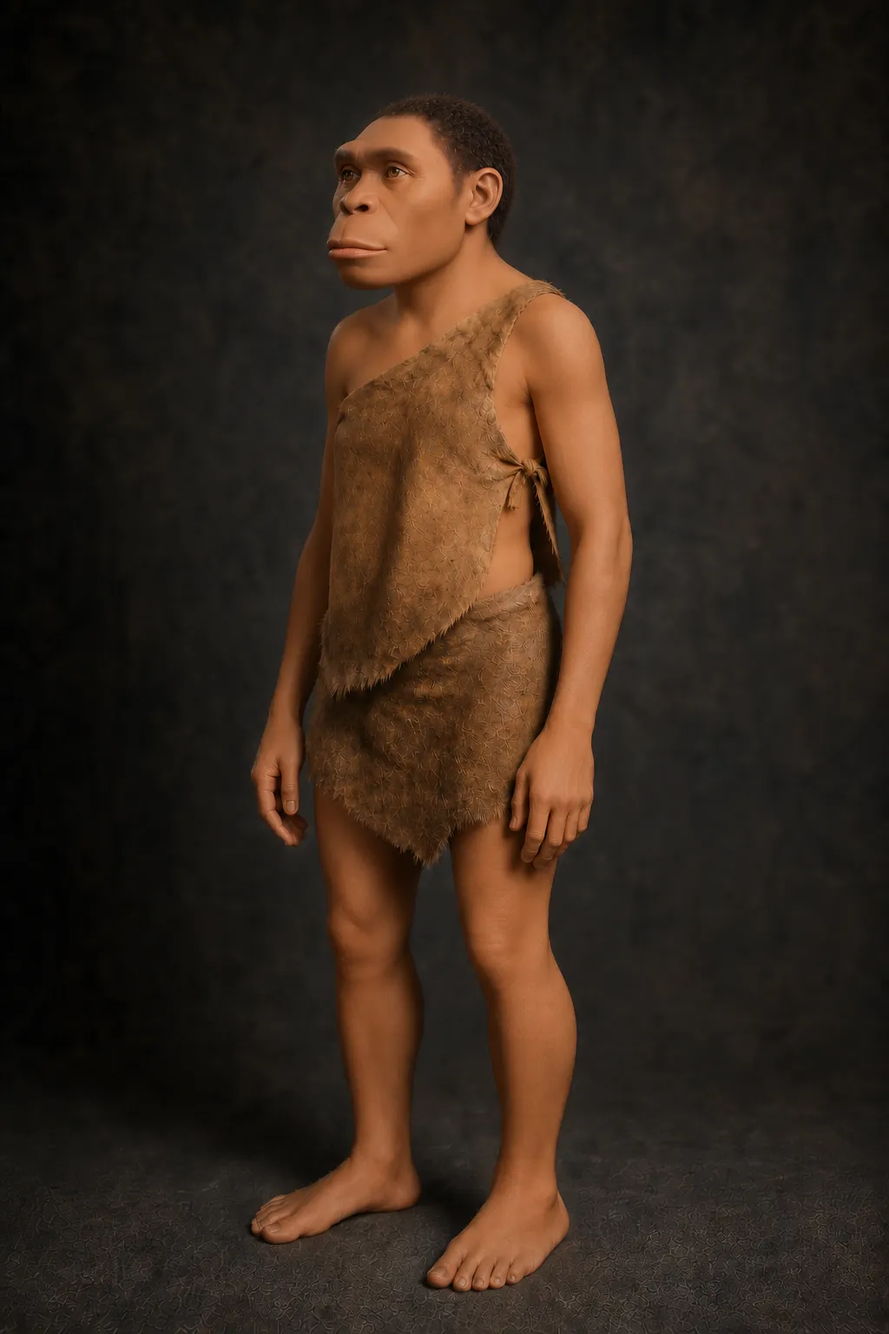
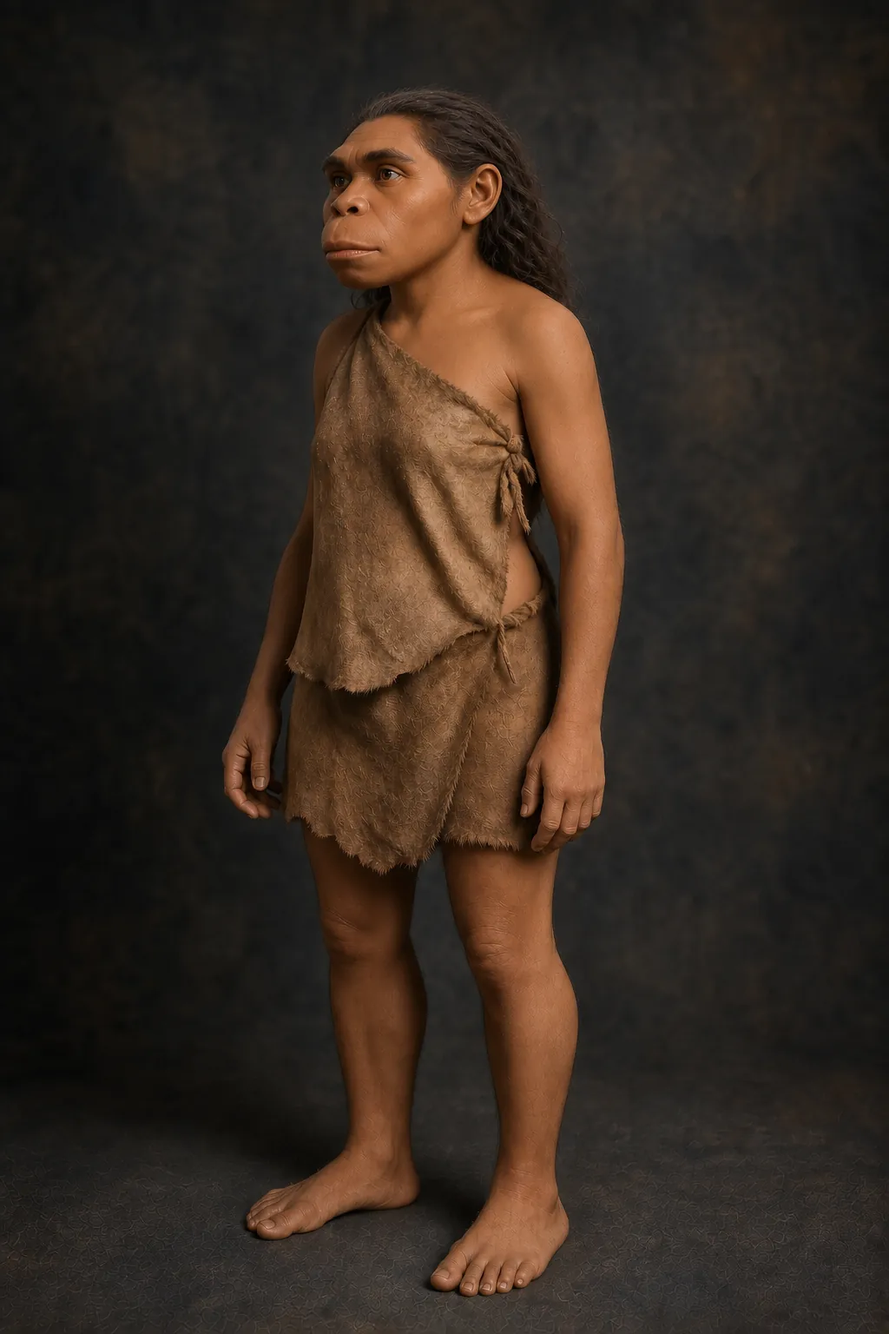
Give the floresiensis female natural hair and clean skin; Denisovan prompt work in progress
Claude-Session: https://claude.ai/code/session_01T91GDopVkXYdE6bdBhk3Gp

diff --git a/tools/generate_portraits.py b/tools/generate_portraits.py
@@ -101,6 +101,19 @@ CLOTHING = {
         "minimal period clothing; a wide hide wrap around the hips that fully covers the groin and buttocks "
         "and reaches mid-thigh; arms and lower legs bare"
     ),
+    ("denisovan", "male"): (
+        "cold-climate clothing; a heavy, shaggy dark brown fur cloak draped over both shoulders and upper arms, "
+        "hanging down the back to the knees and open at the front over the chest; a wide fur wrap around the "
+        "hips that fully covers the groin and buttocks and reaches mid-thigh; forearms and lower legs bare, "
+        "bare feet"
+    ),
+    ("denisovan", "female"): (
+        "cold-climate clothing; a heavy, shaggy dark brown fur cloak draped over both shoulders and upper arms "
+        "and closed across the front, so thick fur fully covers her chest from the collarbones to the waist, "
+        "loose and unfitted, hanging straight with no shape of the body showing through; a wide fur wrap "
+        "around the hips that fully covers the groin and buttocks and reaches mid-thigh; forearms and lower "
+        "legs bare, bare feet"
+    ),
 }
 
 REF_LABELS = ("The first reference image", "The second reference image", "The third reference image")
@@ -177,11 +190,14 @@ EXTRA = {
         "forwards; a long upper lip; a large jaw with a receding chin and no chin point. "
     ),
     "denisovan": ARCHAIC_LEAD + (
-        "A huge, long, low skull with a flat forehead that slopes straight back from the brow; a massive, "
-        "thick bar of brow ridge jutting far out over large square eye sockets, casting the eyes into shadow; "
-        "a very broad, tall, flat face with wide cheekbones; a very wide, low, flat nose; a long upper lip over a "
-        "wide mouth; a huge, deep jaw pushed forward with very large teeth and a receding chin with no chin "
-        "point. "
+        "The face is built on the Harbin skull and looks clearly different from Homo heidelbergensis and "
+        "Neanderthals: a very large, long, low braincase with a low forehead sloping back; a thick but almost "
+        "straight, level brow bar running across both eyes, less arched than a Neanderthal's; large, almost "
+        "square eye sockets set wide apart; a very wide, flat face, as wide as it is long, with broad, flat, "
+        "forward-facing cheekbones and no hollow beneath them; the midface flat and wide, not drawn forward "
+        "like a Neanderthal's; a very broad, flat nose with wide nostrils and a low, flat root; a wide mouth "
+        "over big, broad jaws with very large molars, so the lower face is broad and square; no chin, the jaw "
+        "line slopes back from the lower lip. "
     ),
     "homo-heidelbergensis": ARCHAIC_LEAD + (
         "A long, low skull with a low forehead sloping straight back from the brow; a very large, thick, "
@@ -262,6 +278,41 @@ def smooth_skin(areas):
     )
 
 
+def harbin_head(hair):
+    return (
+        "Head check, most important: the head looks like a silicone museum reconstruction built on the Harbin "
+        "'Dragon Man' skull, an extinct Denisovan, not any living person and not any living human population. "
+        "It must look clearly unlike the Kabwe / Homo heidelbergensis reconstruction, which has a long, narrow, "
+        "forward-drawn face. The head faces almost straight at the camera, turned only about 15 degrees, so "
+        f"the full width of the face reads. {hair}, so the forehead, the whole brow bar and the huge, long, low "
+        "skull are fully visible. Face width: the face at the cheekbones is about one and a half times as wide "
+        "as the forehead, a broad, flat, moon-shaped face as wide as it is tall; the cheekbones are big, flat, "
+        "forward-facing plates and the widest part of the head; the eye sockets are big square holes set wide "
+        "apart, more than one eye-width between them; the mouth is very wide, its corners reaching past the "
+        "pupils, with thin, flat lips; the jaws are huge and square at the corners, and there is no chin. A "
+        "thick, straight, level bar of bone as thick as a thumb runs unbroken across both eyes like a shelf, "
+        "with a groove above it; from the front almost no forehead shows above the brow bar, because the low "
+        "forehead runs straight back at 45 degrees into a low, flat-topped skull; the forehead skin is smooth "
+        "and taut with no horizontal lines. Small, deep-set eyes far back in the square sockets. The nose root "
+        "is flat and sunk level with the inner eye corners, with no nose bridge at all; the nose is very broad "
+        "and flat with no rounded fleshy tip. Dark brown skin and dark brown eyes. If in doubt, make the face wider and flatter and the "
+        "brow bar thicker, not smaller. "
+    )
+
+
+HARBIN_HAIR = {
+    "male": (
+        "Jet-black, not brown, very short, coarse, straight, lank hair cropped to about 1 cm all over the head, "
+        "lying flat like short fur, not curly or coiled; not long, not braided, not tied back, no ponytail"
+    ),
+    "female": (
+        "Jet-black, not brown, thick, coarse, straight hair grown to the shoulders, parted in the middle and "
+        "combed straight back off the forehead and temples, then hanging in two simple plaits in front of the "
+        "shoulders; not tied back at the nape, no bun, no ponytail, not curly, not cropped"
+    ),
+}
+
+
 def archaic_head(fossil, sex, turn="about 45 degrees", hair=None):
     return (
         f"Head check, most important: the head looks like a museum reconstruction built on the {fossil}, an "
@@ -276,16 +327,9 @@ def archaic_head(fossil, sex, turn="about 45 degrees", hair=None):
 
 
 EXTRA_SEX = {
-    ("denisovan", "male"): (
-        "Head turned well into three-quarter view, almost profile, so the forward projection of the face is "
-        "obvious. Short hair off the forehead. The brow ridge is a single continuous bony shelf as thick as a "
-        "thumb, running unbroken across both eyes and sticking out past the eye sockets like a roof, with a "
-        "deep notch above it where the flat forehead starts. The cheekbones are very wide and flat, the face at "
-        "least a third wider than a modern man's. The nose is very wide and flat, with nostrils as wide as the "
-        "mouth and almost no bridge. The upper and lower jaws push forward in front of the eyes. A long, convex "
-        "upper lip bulges over very large teeth. The beard is trimmed short so the receding chinless jaw line "
-        "shows. "
-    ) + ARCHAIC_TAIL,
+    ("denisovan", "male"): harbin_head(
+        HARBIN_HAIR["male"] + "; only a few sparse black stubble hairs on the jaw, no full beard, no moustache"
+    ) + "A man of about 30 with smooth, unlined skin. " + ARCHAIC_SHADE + ARCHAIC_NEUTRAL,
     ("homo-erectus", "male"): (
         "The head looks like a Turkana Boy / Sangiran 17 museum reconstruction, not a person. A very long, "
         "low, narrow skull that clearly sticks out at the back. The forehead is almost flat and slopes sharply "
@@ -302,16 +346,16 @@ EXTRA_SEX = {
         "out in a short muzzle. A long upper lip, and no chin: the jaw slopes back. Head turned to "
         "three-quarter view. The same skull as the male of her species, only slightly smaller. "
     ),
-    ("denisovan", "female"): archaic_head("Harbin skull", "female", hair=ARCHAIC_HAIR) + (
-        "A woman of about 30, smaller and finer-boned than the Denisovan male, clearly female in face shape, "
-        "and younger than the male reference. Completely hairless face: jaw, chin, cheeks and upper lip are "
-        "bare skin the same tone as the forehead, no stubble or shadow; no forehead lines, eye bags or "
-        "nasolabial folds. Museum reconstruction from the Harbin skull: a very wide face with a long low skull; "
-        "a thick, straight brow bar with both eyes deep in its shadow; the forehead slopes straight back from "
-        "the brow at 45 degrees; the nose root is flat and sunk level with the inner eye corners, no bridge, "
-        "very wide flat nostrils; the upper jaw and thin lips push forward past the nose base; very large "
-        "molars widen the lower face; no chin bump. "
-    ) + ARCHAIC_SHADE + ARCHAIC_NEUTRAL + YOUNG_SKIN + ARCHAIC_TAIL,
+    ("denisovan", "female"): harbin_head(HARBIN_HAIR["female"]) + (
+        "A woman of about 30, clearly a woman at a glance from her long plaits, her completely hairless, "
+        "smooth face, a slimmer neck, narrower shoulders and slightly smaller, finer features than a man's. "
+        "The bones of her face are as heavy and archaic as a Denisovan man's: the brow shelf sticks out so far "
+        "that it hides the upper eyelids and keeps both eyes in shadow, and the hairline starts just above the "
+        "brow bar because the forehead slopes straight back; the nose has no bridge between the eyes and is a "
+        "broad flat wedge with nostrils flaring sideways, not a rounded fleshy nose; a very wide, flat face, a "
+        "wide mouth and no chin. Not a living woman and not any living population: a silicone museum "
+        "reconstruction head on the Harbin skull. "
+    ) + BARE_FEMALE_FACE + ARCHAIC_SHADE + ARCHAIC_NEUTRAL + ARCHAIC_TAIL,
     ("homo-heidelbergensis", "male"): archaic_head(
         "Kabwe 1 skull", "male", hair=ARCHAIC_HAIR + ", and a short trimmed dark beard with no grey",
     ) + (
@@ -339,13 +383,16 @@ EXTRA_SEX = {
         "Shoulders rolled forward, arms long with fingertips near the knees, legs visibly short, and very long "
         "flat feet. "
     ) + smooth_skin("chest, belly, arms and legs") + ARCHAIC_TAIL,
-    ("homo-floresiensis", "female"): archaic_head("LB1 skull from Liang Bua", "female") + (
+    ("homo-floresiensis", "female"): archaic_head(
+        "LB1 skull from Liang Bua", "female",
+        hair="Natural dark wavy hair grown to the shoulders, pushed straight back from the face and tucked "
+        "behind the ears, not a buzz cut, not cropped, not bald",
+    ) + (
         "A tiny, low, grapefruit-sized braincase, small for the face. A rounded bony brow ridge. The jaws "
         "and teeth push forward into a short muzzle well in front of the nose, like an australopith's. A long "
         "upper lip. Shoulders rolled forward, arms long with fingertips near the knees, legs visibly short, "
-        "and very long flat feet. The same skull and body as the male, slightly smaller. Keep this face shape "
-        "and skull exactly. "
-    ) + BARE_FEMALE_FACE + smooth_skin("shoulders, arms, neck and legs") + YOUNG_FEMALE + ARCHAIC_TAIL,
+        "and very long flat feet. The same skull, muzzle and body as the male reference, slightly smaller. "
+    ) + BARE_FEMALE_FACE + YOUNG_SKIN + YOUNG_FEMALE + ARCHAIC_TAIL,
     ("homo-habilis", "male"): archaic_head("KNM-ER 1813 skull", "male") + (
         "The braincase is visibly small and rounded, clearly smaller than Homo erectus's, so the face looks "
         "large for the head. The face is closer to an australopith's than to a human's: the jaws push well "
@@ -381,10 +428,11 @@ EXTRA_SEX = {
     ),
 }
 
+NO_PAIR = {("denisovan", "female")}
+
 FACE_DONOR = {
     ("homo-heidelbergensis", "male"): "homo-erectus-male",
     ("homo-heidelbergensis", "female"): "homo-erectus-male",
-    ("denisovan", "female"): "homo-erectus-male",
     ("homo-floresiensis", "male"): "australopithecus-afarensis-male",
     ("homo-habilis", "male"): "australopithecus-afarensis-male",
     ("homo-habilis", "female"): "australopithecus-afarensis-female",
@@ -393,6 +441,7 @@ FACE_DONOR = {
 KEY_MODEL = {
     "homo-heidelbergensis-male": "gpt-image-2.5-flare",
     "homo-heidelbergensis-female": "gpt-image-2.5-flare",
+    "denisovan-male": "gpt-image-2.5-flare",
     "denisovan-female": "gpt-image-2.5-flare",
 }
 
@@ -433,7 +482,8 @@ EXPRESSIONS = {
     "male": "calm, mildly amused",
     ("homo-heidelbergensis", "male"): "neutral, no smile",
     ("homo-heidelbergensis", "female"): "neutral, no smile",
-    ("denisovan", "female"): "neutral, no smile",
+    ("denisovan", "male"): "neutral, no smile",
+    ("denisovan", "female"): "calm and relaxed, not frowning, no smile",
 }
 
 
@@ -560,7 +610,7 @@ def build_prompt(style, subj, sex, roles, extra):
         sex=sex,
         species=subj["species"],
         anatomy=anatomy.rstrip("."),
-        clothing=CLOTHING[sex],
+        clothing=CLOTHING.get((subj["id"], sex), CLOTHING[sex]),
         expression=EXPRESSIONS.get((subj["id"], sex), EXPRESSIONS[sex]),
         fix=fix_text(subj["id"], sex) if style == "photo" else "",
     )
@@ -604,7 +654,7 @@ def references(anchor, anchor_stage, stage_id, sex, pair, stages=()):
         else:
             refs.append(pair.parent / f"{donor}.png")
             roles.append(species)
-    if sex == "female" and pair.exists() and pair.stem != anchor.stem:
+    if sex == "female" and (stage_id, sex) not in NO_PAIR and pair.exists() and pair.stem != anchor.stem:
         refs.append(pair)
         roles.append("same")
     return refs, tuple(roles)

diff --git a/tools/portrait_prompt.md b/tools/portrait_prompt.md
@@ -4,7 +4,7 @@
 
 ## Model
 
-The script calls `GET /v1/models` and picks `gpt-image-2`, then `gpt-image-1.5`, then `gpt-image-1`. `KEY_MODEL` pins single keys to another model in `--all` and `--retouch` (heidelbergensis male and female and the Denisovan female use `gpt-image-2.5-flare`). `--model` overrides both. Every call uses `size 1024x1536` and `quality medium` (about $0.04 per image).
+The script calls `GET /v1/models` and picks `gpt-image-2`, then `gpt-image-1.5`, then `gpt-image-1`. `KEY_MODEL` pins single keys to another model in `--all` and `--retouch` (heidelbergensis and Denisovan, both sexes, use `gpt-image-2.5-flare`). `--model` overrides both. Every call uses `size 1024x1536` and `quality medium` (about $0.04 per image).
 
 ## Style photo: full-length studio photograph (the game style, default)
 
@@ -40,7 +40,7 @@ These seven read as living older people with a heavy brow, so stronger face word
 - Brow ridge casts a band of shadow over the eyes; low flat nose, no tall bridge; no chin. Wide face for Denisovan and heidelbergensis.
 - Females add `YOUNG_FEMALE`: `About 30, smooth skin, no wrinkles, no facial hair.` Denisovan and heidelbergensis females also add `ARCHAIC_FEMALE` (face = the male's face without the beard, muzzle like the H. erectus reference). `ARCHAIC_FEMALE` is untested: the API ran out of credit before it could run.
 
-`FACE_DONOR[(stage, sex)]` names a passing image (`<stage>-<sex>` key) as a face reference (`REF_FACE`): the H. erectus male for heidelbergensis (both sexes) and the Denisovan female (was the Neanderthal anchor until try 8), A. afarensis of the same sex for floresiensis male and habilis. When the donor is the anchor, the anchor's own slot becomes the face reference (plus style), so it is not sent twice. Females also keep their own species' male as a same-species reference. The model takes the face and head shape from it but keeps the species' own build, height, skin, hair and body hair from the note. `--all` generates every stage without a donor first, so the donor images exist before they are used.
+`FACE_DONOR[(stage, sex)]` names a passing image (`<stage>-<sex>` key) as a face reference (`REF_FACE`): the H. erectus male for heidelbergensis (both sexes), A. afarensis of the same sex for floresiensis male and habilis. When the donor is the anchor, the anchor's own slot becomes the face reference (plus style), so it is not sent twice. Females also keep their own species' male as a same-species reference. The model takes the face and head shape from it but keeps the species' own build, height, skin, hair and body hair from the note. `--all` generates every stage without a donor first, so the donor images exist before they are used.
 
 ### Sensitivity rule
 
@@ -52,6 +52,8 @@ Every species gets the identical modern studio setup, light and treatment. Never
 
 - female: `minimal period clothing; a hide wrap that passes over one shoulder and fully covers her chest, like a simple one-shouldered hide top tied at the side, loose and unfitted, hanging straight down from the shoulder without shaping to the body, not a strapless band; and a wide hide wrap around the hips that fully covers the groin and buttocks and reaches mid-thigh; arms and lower legs bare`
 - male: `minimal period clothing; a wide hide wrap around the hips that fully covers the groin and buttocks and reaches mid-thigh; arms and lower legs bare`
+
+`CLOTHING[(stage, sex)]` overrides the slot for one species. Denisovan (both sexes) wears a heavy dark brown fur cloak over the shoulders (closed over the female's chest) and a mid-thigh fur hip wrap, for the cold-climate range (Siberia, Tibetan plateau).
 
 The garment sentence at the end of each anatomy note (`Wears ...` / `Bare-chested, ...`) is cut off before the note goes in, so it cannot fight the clothing slot.
 
@@ -210,3 +212,60 @@ Results:
 - Floresiensis female (4 in all, cap reached): two retouches of the review-6 image. Kept try 2: young, smooth face with no whiskers, and the muzzle is unchanged. A faint net pattern is still on the upper arm. Each retouch darkens the backdrop a little (corner mean 26/24/21, then 24/22/19, then 22/19/16, against a set of about 29-33). Visible on the contact sheet but still the same backdrop.
 - Habilis female (3 in all): one retouch of the review-6 image. Pass. About 30, smooth hairless face, the muzzle is unchanged, and the skin is much smoother (a faint trace on the arm). The brow is still modest. Backdrop 24/22/20.
 - The kept floresiensis and habilis females are retouches. `--all` will not recreate them. A fresh `--all` run for those keys has to be followed by `--retouch`.
+
+## Try 9 (Denisovan made distinct from heidelbergensis)
+
+The Denisovan pair looked the same as the heidelbergensis pair (same erectus-donor face, profile head, hide clothes). Images before this round are `rejected/denisovan-*-pre9.png`. Rejected tries are `rejected/denisovan-*-t9a*.png`. Logs: `tools/out/t9-*.log`.
+
+Tool changes:
+
+- `EXTRA["denisovan"]` now describes the Harbin "Dragon Man" skull (Denisovan per the 2025 protein and mtDNA studies): very large long low braincase, thick but straight, level brow bar, large almost square eye sockets, very wide flat face with broad flat forward-facing cheekbones, flat midface (not drawn forward like a Neanderthal's), very broad flat nose, wide mouth over big broad jaws with very large molars, no chin.
+- New `harbin_head(hair)` for both Denisovan `EXTRA_SEX` entries: silicone museum reconstruction of the Harbin skull, head turned only about 30 degrees so the face width shows, groove above the brow then a 45-degree forehead into a long low skull, brow shelf shading the square eye sockets, flat nose root, jaws bulging past the nose base, dark brown skin, brown eyes. Plus `ARCHAIC_SHADE` and `ARCHAIC_NEUTRAL`.
+- Male: short rough straight black hair lying close to the head, thin sparse beard, about 35. Female: straight black hair pulled back and tied at the nape, plus `BARE_FEMALE_FACE` and `YOUNG_SKIN`.
+- `CLOTHING[("denisovan", sex)]`: fur cloak and fur hip wrap (see Clothing). `build_prompt` reads it before the per-sex default.
+- Denisovan female `FACE_DONOR` removed. The Neanderthal anchor is now only the style reference (`REF_STYLE`: not for face). The female still gets the new male as her same-species pair.
+- `KEY_MODEL` adds `denisovan-male` (flare). `EXPRESSIONS` adds the male: "neutral, no smile".
+
+Results (all on `gpt-image-2.5-flare`; no gpt-image-2 fallback was needed):
+
+- Denisovan male (3 tries, cap reached): try 1 had a wide face and the fur cloak but read as a living older man (upright lined forehead, fleshy bridged nose, lit eyes, full curly beard). Try 2 added the brow groove, the 45-degree forehead and straight hair: a little better. Try 3 added `ARCHAIC_SHADE`, hair close to the head, jaws forward. Kept: thick brow shelf, sloping forehead, wide flat face, straight close black hair, sparse beard, fur cloak. Faint forehead lines and a slight nose bridge remain.
+- Denisovan female (3 tries, cap reached): try 1 kept. Archaic (brow shelf, sloping forehead, wide face), hair tied back, fur cloak closed over the chest, hip wrap. She looks older than 30 and a little masculine, with faint jaw shadow and forehead lines. Try 2 ("softer, fuller cheeks, not a frown") and try 3 ("clearly a woman, smooth forehead") both added chin stubble and read more male. The male pair's beard and lines leak through. The tool holds the try 1 wording.
+- Distinct from heidelbergensis at phone size: near-frontal wide face against heidelbergensis' profile, straight black hair, and a dark fur cloak against the hide wraps. See `tools/out/full/compare-archaic.png` (face crops of Neanderthal, Denisovan, heidelbergensis and erectus, male and female rows).
+- Backdrop and light match the set (corner means 23/21/19 and 36/32/29, anchor 19/18/16 and 32/29/26).
+
+## Try 10 (Denisovan vs heidelbergensis, after review 9)
+
+Review 9 failed both Denisovans on crit A: long brown hair tied back, the same 3/4 pose and a long face, so they matched the heidelbergensis pair. Only the fur set them apart. Images before this round are `rejected/denisovan-*-pre10.png`. Rejected tries are `rejected/denisovan-*-t10a1.png`. Logs: `tools/out/t10-*.log`. Max 2 tries per key, all on `gpt-image-2.5-flare`.
+
+Tool changes:
+
+- `harbin_head(hair)` rewritten. Head turned only about 15 degrees (heidelbergensis uses 45 to 70). Hard width numbers: cheekbones 1.5 times the forehead width, moon-shaped face as wide as tall, square eye sockets more than an eye-width apart, mouth corners past the pupils, thin flat lips, huge square jaws, no chin. Brow bar "as thick as a thumb" with a groove above it, and "from the front almost no forehead shows above the brow bar". No nose bridge at all. "Clearly unlike the Kabwe / heidelbergensis reconstruction (long, narrow, forward-drawn face)". The old "jaws bulge forward past the nose" line is gone.
+- New `HARBIN_HAIR` for both sexes: jet-black, coarse, straight, lank, cropped to about 1 cm, lying flat like short fur, not curly, not long, braided or tied back.
+- Male: only sparse black stubble on the jaw, no full beard; "about 30 with smooth, unlined skin".
+- Female: built on the male reference's skull and face shape "but unmistakably a woman" (smaller, smoother, softer face, rounder cheeks, lighter jaw, hairless chin, jaw and lip), the same width numbers, "not a living woman and not any living population". Expression is now "calm and relaxed, not frowning, no smile" (the neutral face read as a scowl).
+
+Results:
+
+- Male (2 tries, cap reached): try 1 was near-frontal, wide and short-haired but read as a living older man (upright lined forehead, fleshy lips, curly crop, heavy stubble). Try 2 (thumb-thick brow shelf with groove, no forehead above it, thin lips, smooth skin) kept. Clearly distinct from heidelbergensis at phone size: frontal wide face, short black crop, fur cloak. Strong brow shelf reads archaic. Faint forehead lines, a slight nose bridge and a curly texture in the crop remain.
+- Female (2 tries, cap reached): try 1 copied the male (scowl, stubble shadow), so she read as a man. Try 2 kept: same Denisovan face, less scowl, chest fully covered by the closed cloak. Still fails crit C: masculine, faint chin and jaw stubble, faint forehead lines. The male pair's stubble leaks through. The 1 cm crop on a female also reads male. Next step if needed: a `--retouch` limited to skin (smooth chin and jaw, no lines), since retouching face shape modernises archaic faces.
+- Backdrop corners 20/18/16 and 32/29/27 (male), 20/19/16 and 32/30/27 (female), anchor 17/16/14 and 28/26/24.
+- `tools/out/full/compare-archaic.png` rebuilt (face crops, Neanderthal, Denisovan, heidelbergensis, erectus).
+
+## Try 11 (both females given hair, Denisovan female made a woman)
+
+The Denisovan female read as a copy of the male (stubble, 1 cm crop, masculine). The floresiensis female was almost bald. Images before this round are `rejected/*-pre11.png` (and `rejected/compare-archaic-pre11.png`). Rejected tries are `rejected/*-t11a1.png`. Logs: `tools/out/t11-*.log`. Max 2 tries per key, 4 calls in all.
+
+Tool changes:
+
+- `HARBIN_HAIR` is now a dict by sex. Male: the 1 cm crop as before. Female: jet-black straight hair to the shoulders, parted in the middle, combed back off the forehead, two plaits in front of the shoulders, not tied at the nape.
+- New `NO_PAIR` set: `references()` skips the male pair for these female keys. Denisovan female is in it, so she only gets the Neanderthal anchor as a style reference. The male's stubble and forehead lines no longer leak in.
+- Denisovan female `EXTRA_SEX`: no longer "built on the male reference". Female cues are the plaits, a hairless smooth face, slimmer neck, narrower shoulders and slightly finer features. The face bones stay "as heavy and archaic as a Denisovan man's": brow shelf hiding the upper eyelids, hairline just above the brow bar, no bridge, broad flat wedge nose, no chin. `YOUNG_SKIN` dropped and `ARCHAIC_TAIL` added for this key.
+- Floresiensis female: `archaic_head(..., hair=...)` with dark wavy hair to the shoulders pushed back behind the ears. `smooth_skin(...)` swapped for `YOUNG_SKIN`. "Keep this face shape" now points at the male reference's skull and muzzle.
+
+Results:
+
+- Denisovan female (2 tries, flare): try 1 was clearly a woman with plaits and a hairless face. It failed as archaic: thin brow, upright forehead, a fleshy nose and lit eyes, so she read as a living woman. Try 2 (heavier bone wording) kept: plaits, smooth jaw, a thicker brow shelf, a low sloping hairline and a wide flat face. The fur cloak is closed over the chest. Remaining faults: she looks closer to 40 than 30 (nasolabial folds, a light frown), the nose is still fleshy, the eyes are not shaded and there is a faint speckle under the chin. She is less archaic than the male, but now reads as female and as a different person.
+- Floresiensis female: try 1 was a fresh `--all` on gpt-image-2 with the male pair. Wavy shoulder-length hair pushed back, the muzzle and sloping forehead kept, tiny build and clothing fine. Skin failed: crackle and net lines on the shoulder and face, forehead lines, looked about 45. Try 2 was one `--retouch` of try 1 (`RETOUCH` entry unchanged, gpt-image-2). Kept: smooth young skin, no whiskers, hair and muzzle unchanged. The brow got a little lighter and the eyes show more white. The pre-11 image was a stack of two retouches. This is one retouch on a fresh image.
+- Backdrop corners: Denisovan female 19/17/15 and 32/29/26, floresiensis female 19/18/16 and 30/25/21. The pre-11 floresiensis was 8/7/4 and 19/16/12, so the new one matches the set better.
+- The kept floresiensis female is again a retouch. A fresh `--all` for that key must be followed by `--retouch`.
+- `contact-sheet.png` rebuilt. `compare-archaic.png` has the new Denisovan female tile (crop 220,20 to 740,540).
